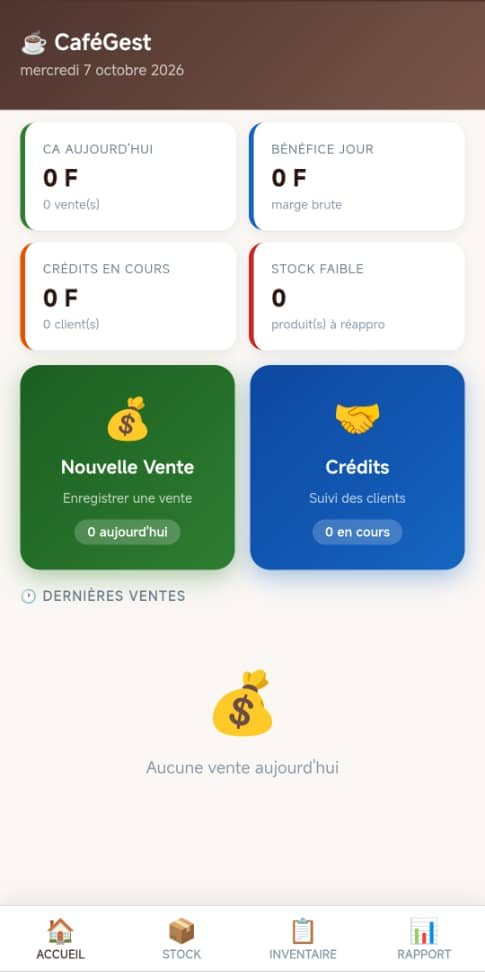
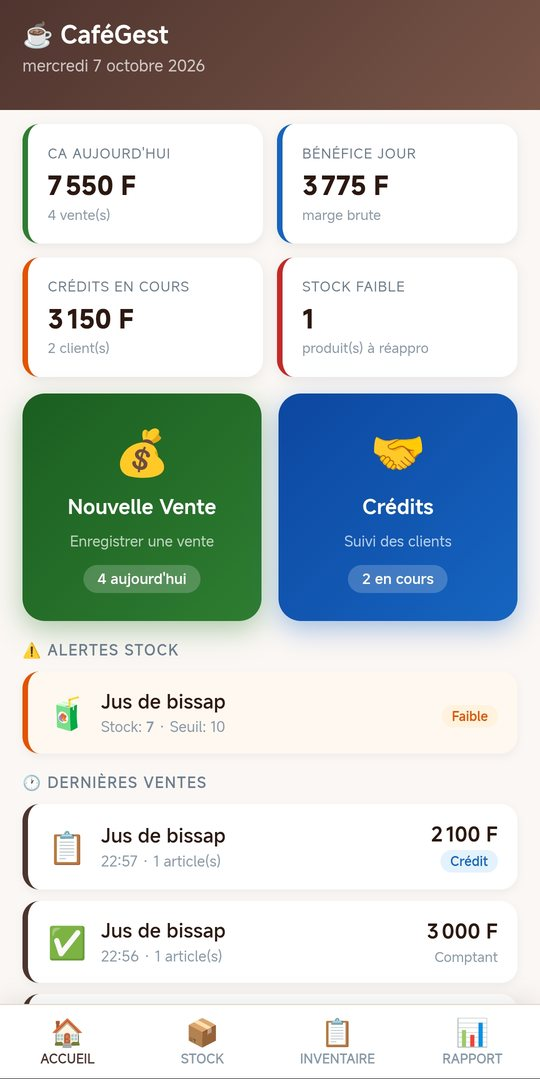
CaféGest : capture avec des ventes, crédits et une alerte de stock
Claude-Session: https://claude.ai/code/session_01AvUUsiqXQZqpkPYmi9tPPX

diff --git a/portfolio.html b/portfolio.html
@@ -130,7 +130,7 @@
       </div>
       <div class="project-shots">
         <figure class="shot shot-phone">
-          <a href="img/cafegest-accueil.jpg" target="_blank" rel="noopener"><img src="img/cafegest-accueil.jpg" width="485" height="972" loading="lazy" alt="Écran d'accueil de CaféGest sur téléphone : chiffre d'affaires du jour, crédits, stock faible, nouvelle vente"></a>
+          <a href="img/cafegest-accueil.jpg" target="_blank" rel="noopener"><img src="img/cafegest-accueil.jpg" width="540" height="1079" loading="lazy" alt="Écran d'accueil de CaféGest sur téléphone : chiffre d'affaires du jour, crédits, stock faible, nouvelle vente"></a>
           <figcaption><strong>L'écran d'accueil, sur un téléphone ordinaire.</strong> Chiffre du jour, crédits en cours et produits à réapprovisionner sont visibles dès l'ouverture. Une vente s'enregistre en deux touches, même sans réseau.</figcaption>
         </figure>
       </div>
